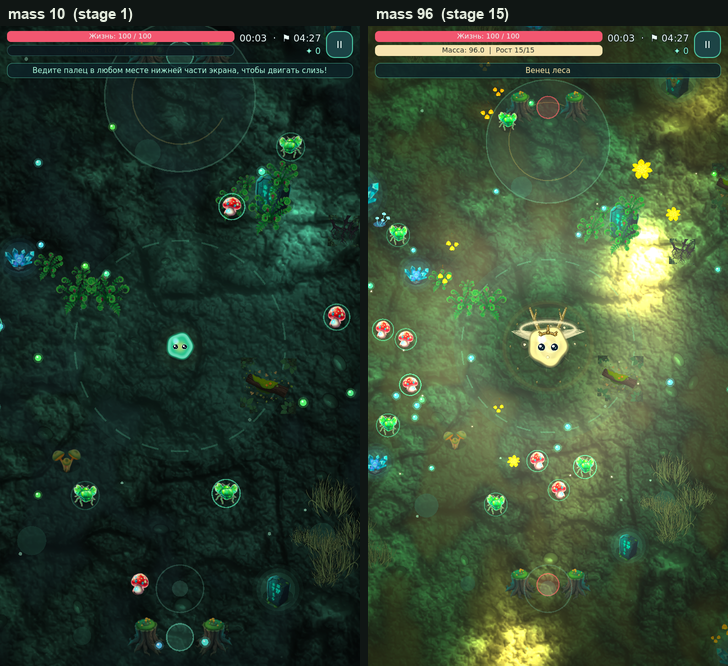
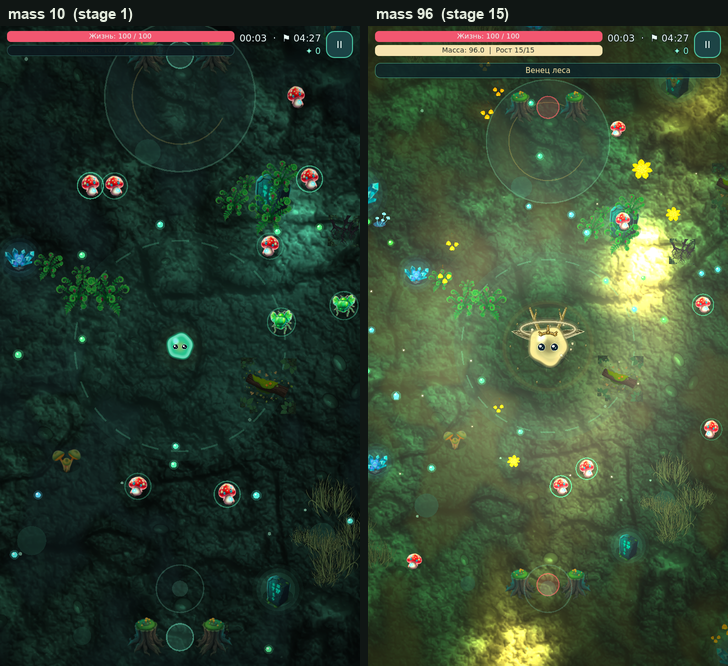
docs: iteration 11 numbers and the pale-on-pale rules
QA 1198/0, VICTORY 322.6 s, peak mass 101.8. The peak-spread paragraph now
states what six runs actually did (101.8-121.4) and why the top threshold sits
under the weakest of them rather than the average: the weakest run is exactly
the one the old 104 would have denied the crown.

ARCHITECTURE gains the fourth legibility iteration (the _veil crossover and the
shader's detail flip), TEST_REPORT 7.16-7.17 gain the measurements, and the two
stale 'A/B mass 10 vs 104' references are now 'first stage vs top' because the
sheet reads its masses from EvolutionStages.gd instead of a copy.

diff --git a/PROGRESS.md b/PROGRESS.md
@@ -320,7 +320,7 @@
    пунктирная граница.
 
 Инструменты, чтобы это больше не собиралось одноразовой командой в `/tmp`:
-`tools/growth_ladder_sheet.py` (15 ступеней, `--ab` для пары 10/104) и
+`tools/growth_ladder_sheet.py` (15 ступеней, `--ab` для пары «первая ступень / вершина») и
 `tools/AuraPreview.tscn` — те же два экземпляра регалий на плоском манекене при 4× радиусе.
 Смотреть украшения на игровом кадре бессмысленно: под ними пол, реквизит, враги и грейд.
 
@@ -406,21 +406,25 @@
 
 ## Последние зафиксированные проверки и артефакты
 
-- `./scripts/run_qa.sh` (Godot `4.5.stable.official.876b29033`): **1165 assertions, 0 failures**, `exit 0`
+- `./scripts/run_qa.sh` (Godot `4.5.stable.official.876b29033`): **1198 assertions, 0 failures**, `exit 0`
   (рост по итерациям: 464 → 495 → 522 — звук/удар/вибрация, 522 → 551 — арт мира,
   551 → 592 — бесконечный лес и чанки, 592 → 597 — дымка на реквизите,
-  597 → 1163 — набор на лестницу роста, 1163 → 1165 — полная шкала на вершине).
+  597 → 1163 — набор на лестницу роста, 1163 → 1165 — полная шкала на вершине,
+  1165 → 1198 — достижимость вершины и колокол на каждой ступени).
 - Автономный запуск `PCK` из изолированного `/tmp`: **324 assertions, 0 failures** (`reports/gameplay-packed-qa-2026-10-22.log`).
 - Автоматизированное прохождение на чистом профиле + одновременный замер шины `Master` до/после лимитера:
   `reports/automated-playthrough-verified-2026-10-22.json` и `reports/audio-limiter-verification-2026-10-22.json`.
 - **macOS (Apple M5, Metal 3.2 Forward Mobile), нативная сборка** (коммит `62c9978`):
-  - QA → **1165 assertions, 0 failures**, `exit 0`;
-  - автоматизированное прохождение **`VICTORY` за 315.0 с** (wall 318.9), пиковая масса **102.4**,
-    14 событий урона, `cheats_or_direct_stat_edits: false`
+  - QA → **1198 assertions, 0 failures**, `exit 0`;
+  - автоматизированное прохождение **`VICTORY` за 322.6 с** (wall 327.3), пиковая масса **101.8**,
+    15 событий урона, `cheats_or_direct_stat_edits: false`
     (`reports/macos-automated-playthrough-growth-2026-10-23.json`);
-  - пик массы гуляет от забега к забегу: этот остановился на 102.4 (14-я ступень), предыдущий
-    дошёл до 111.5 (15-я). Пятнадцатая достижима, но не в каждом забеге — порог 104 стоит
-    близко к тому, сколько массы реально набирается к финалу;
+  - пик массы гуляет от забега к забегу: шесть победных прогонов дали 101.8 / 102.4 / 108.8 /
+    111.5 / 117.0 / 121.4. Разброс не случайный — прирост гасится выше `SOFT_CAP_MASS = 78`
+    (`1/(1+(m−78)·0.025)`), а каждый дэш сжигает 1.5 % массы. Поэтому порог вершины стоит
+    **под слабейшим** пиком, а не под средним: 96. Этот забег — самый слабый из шести, и
+    пятнадцатую ступень он всё равно взял (с запасом 5.8); со старым порогом 104 корону
+    он бы не увидел;
   - собранный `.app` проверен не по логу сборки, а запуском: `--headless --quit-after 90` →
     `exit 0` без ошибок скриптов; в `.pck` лежит новый код (токены `_glow`, «bright rim», «contour»);
   - `shasum -a 256 -c` проходит **по обеим строкам** из корня репозитория (до этого вторая строка

diff --git a/TEST_REPORT.md b/TEST_REPORT.md
@@ -356,7 +356,7 @@
 | Мир реагирует на то же число | там же: `env_for_mass` монотонен, 0.0 на массе 10 и 1.0 на 128 | пройдено |
 | Все пятнадцать имён есть в обоих языках | там же: разбор `ru.json` / `en.json`, а не проверка формата ключа | пройдено |
 | Лестница видна глазами | 15 снимков одной сцены с одним сидом (`QUICK_CAPTURE_MASS`, seed 4242) | см. `reports/growth-ladder-*.png` |
-| Мир меняется вместе с ростом | A/B «масса 10 против 104» на одном сиде: холодный тёмный лес против тёплого цветущего | см. `reports/growth-world-ab-*.png` |
+| Мир меняется вместе с ростом | A/B «первая ступень против вершины» на одном сиде: холодный тёмный лес против тёплого цветущего | см. `reports/growth-world-ab-*.png` |
 
 Итог прогона QA: **1163 утверждения, 0 провалов** (было 597 до этого прохода; новый набор
 добавляет 566 проверок — в основном обходы масс для монотонности и непрерывности).
@@ -417,7 +417,7 @@
 5. **Глейд спавна.** `SAFE_SPAWN_RADIUS * 0.75` рисовался одной дугой 4 px; игрок спавнится
    в её центре, поэтому первую минуту вокруг персонажа висел круг как из отладочного gizmo.
 
-Воспроизводимость: `tools/growth_ladder_sheet.py` (15 ступеней + `--ab` для пары 10/104) и
+Воспроизводимость: `tools/growth_ladder_sheet.py` (15 ступеней + `--ab` для пары «первая ступень / вершина») и
 `tools/AuraPreview.tscn`. До этого лист собирался одноразовой командой в `/tmp` и не
 пересобирался после правок.
 
